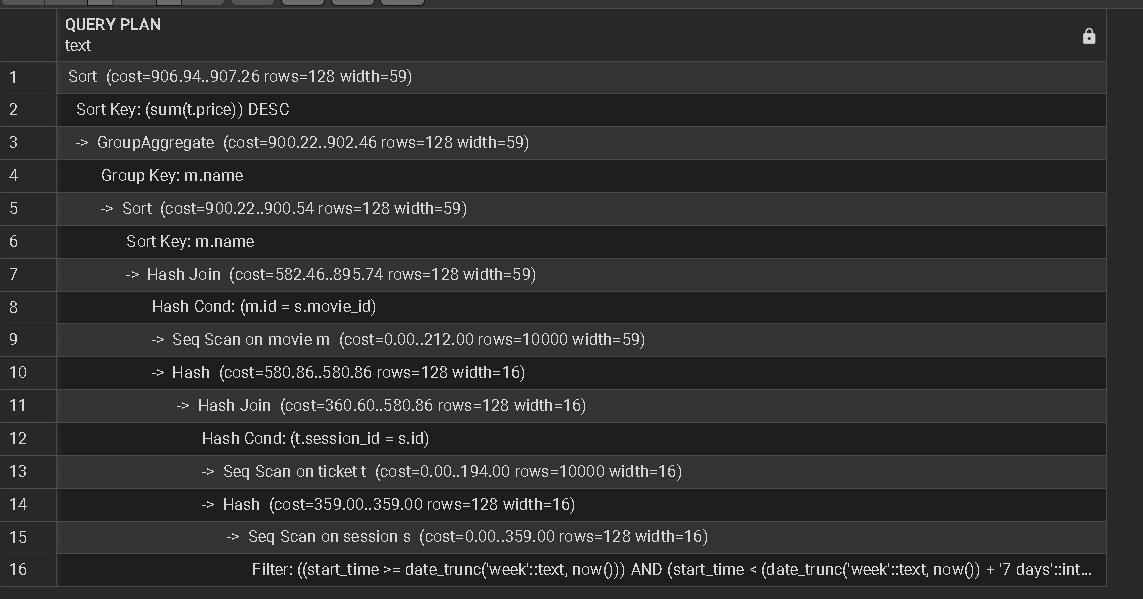
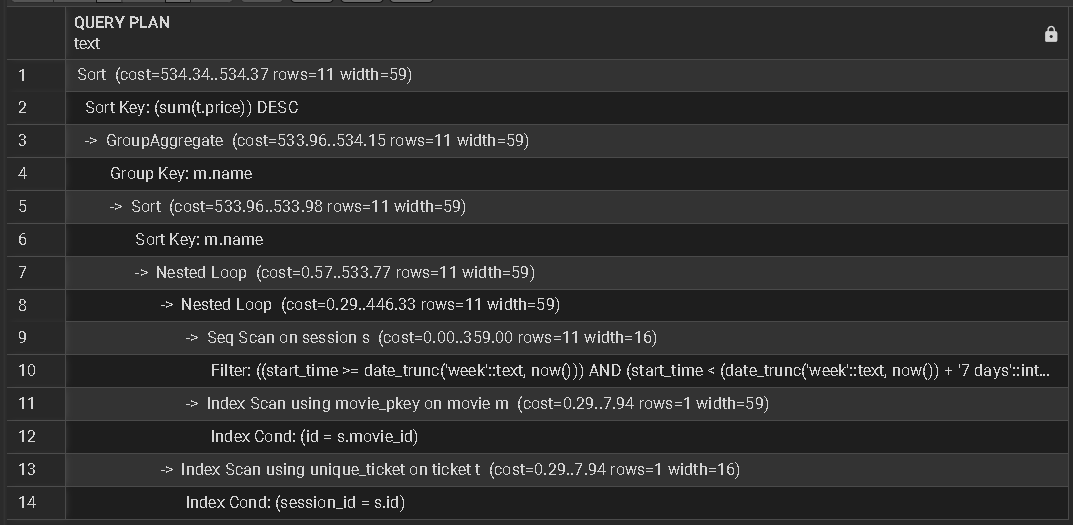
feat: Updated query data

diff --git a/README.md b/README.md
@@ -50,11 +50,11 @@
 | Запрос     | Затраты на получение первой строки | Затраты на получение всех строк |
 |------------|------------------------------------|---------------------------------|
 | Простой №1 | 8.31                               | 8.32                            |
-| Простой №2 | 0.29                               | 4.39                            |
+| Простой №2 | 0.29                               | 4.30                            |
 | Простой №3 | 0.29                               | 8.30                            |
-| Сложный №1 | 906.22                             | 907.26                          |
-| Сложный №2 | 447.79                             | 447.8                           |
-| Сложный №3 | 581.1                              | 583.54                          |
+| Сложный №1 | 534.34                             | 534.37                          |
+| Сложный №2 | 445.57                             | 445.58                          |
+| Сложный №3 | 584.76                             | 587.21                          |
 
 
 ### Простой запрос №1
@@ -97,8 +97,6 @@
 ### Сложный запрос №3
 ![10-million-records-complex-request-3.png](img/explain/10-million-records-complex-request-3.png)
 
-
-
 ## Идеи для оптимизации
 
 Для простых запросов стоимость не большая, предлагаю их не оптимизировать.
@@ -121,6 +119,9 @@
 
 | Запрос     | Затраты на получение первой строки (до оптимизации) | Затраты на получение всех строк (до оптимизации) | Затраты на получение первой строки (после оптимизации) | Затраты на получение всех строк (после оптимизации) |
 |------------|-----------------------------------------------------|--------------------------------------------------|--------------------------------------------------------|-----------------------------------------------------|
+| Простой №1 | 8.46                                                | 8.47                                             | 4.46                                                   | 4.47                                                |
+| Простой №2 | 0.43                                                | 4.45                                             | 0.43                                                   | 4.45                                                |
+| Простой №3 | 0.43                                                | 8.45                                             | 0.43                                                   | 8.45                                                |
 | Сложный №1 | 264262.06                                           | 264286.36                                        | 78570.13                                               | 78594.44                                            |
 | Сложный №2 | 241532.21                                           | 241532.21                                        | 160307.94                                              | 160307.95                                           |
 | Сложный №3 | 1145.73                                             | 1148.07                                          | 54.39                                                  | 56.73                                               |
